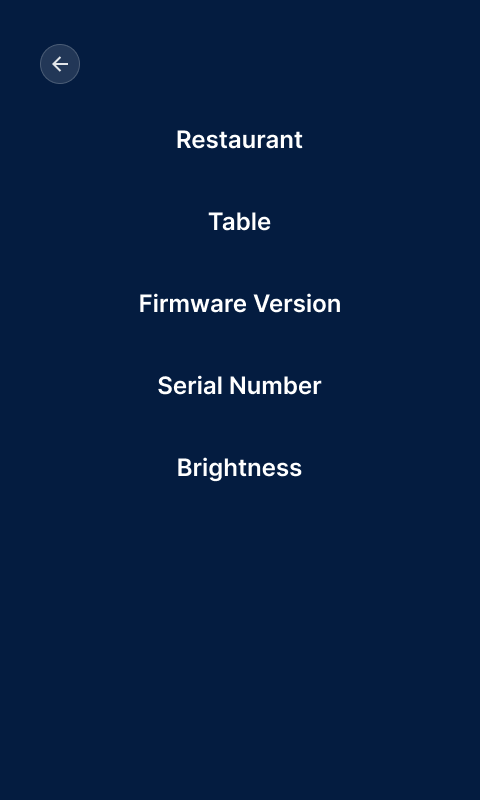
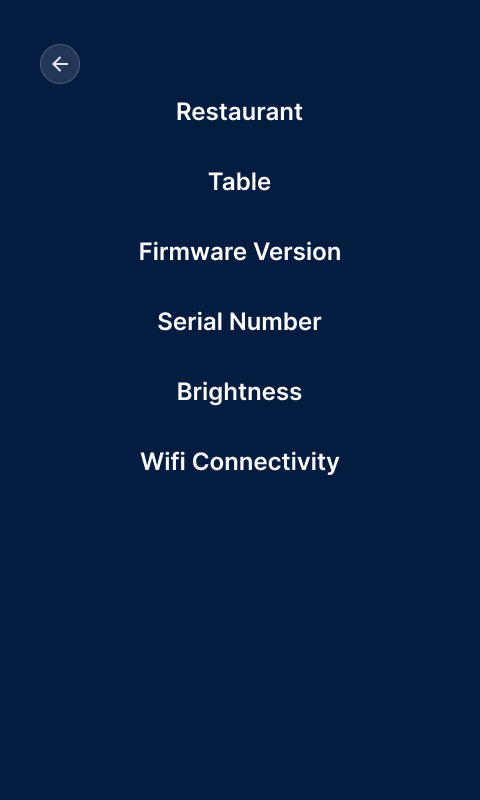
ADD: wifi network in about screen

Changed region(s): [[0.2812, 0.125, 0.7188, 0.4375], [0.2812, 0.5625, 0.7188, 0.625], [0.3125, 0.4688, 0.6875, 0.5312]]

diff --git a/qt-app/main.py b/qt-app/main.py
@@ -20,6 +20,7 @@ from datetime import datetime
 from multiThread import runInNewThread,ReUsableThreadRunner
 from serial import getserial
 from QueueWorker import QueueWorker
+from config.config import APP_VERSION,getConnectedWifi
 
 ENV=os.environ.get('ENV')
 
@@ -52,8 +53,8 @@ firstJourney = True
 smiley = "neutral"
 timeOuts = {
     'generalTimeout':60,
-    'thankYouTimeout':120,
-    'ratingTimeout':300,
+    'thankYouTimeout':600,
+    'ratingTimeout':600,
     'realTimeExpTimeout':20,
     'waiterMenuTimeout':120
 }
@@ -631,6 +632,8 @@ class AboutScreen(TimeBoundScreen):
             self.brightnessLabel.setText(str(storage["podBrightness"]))
         else: 
             self.brightnessLabel.setText("255")
+        self.wifiLabel.setText(getConnectedWifi())
+        self.versionLabel.setText(str(APP_VERSION))
     
     def refresh(self):
         if(self.refreshed):
@@ -747,7 +750,6 @@ class WaiterMenuScreenLoader(TimeBoundScreen):
         loadUi("ui/WaiterMenuLoader.ui", self)
     def clear(self):
         tableId = getTableId()
-        self.tableNumber.setText(tableId)
         super().reset()
     def navigateToGuestScreen(self):
         self.signal.emit()
@@ -1364,6 +1366,7 @@ class BillScreen(QDialog):
     
     def navigateBack(self):
         # navigateToScreen(DinerActionMenuScreen)
+
         navigateGoBack()
 
     def clear(self):
@@ -1375,11 +1378,11 @@ class BillScreen(QDialog):
         serviceCalls['waiterId'] = waiterId
         serviceCalls['guestCount'] = guestCount
 
-    
+
         navigateToScreen(PayQRScreen)
     
     def navigateToFeedbackScreen(self):
-        
+
         navigateToScreen(FeedbackScreen)
 
 
@@ -1401,30 +1404,40 @@ class ServerWillAssistScreen(QDialog):
     def navigateToThankYouScreen(self):
         navigateToScreen(ThankYouScreen)
 
-class PayQRScreen(QDialog):
+class PayQRScreen(TimeBoundScreen):
     shared_instance = None
+    signal = pyqtSignal()
     @staticmethod
     def getInstance():
         if(PayQRScreen.shared_instance == None):
             PayQRScreen.shared_instance = PayQRScreen()
         return PayQRScreen.shared_instance
     def __init__(self):
-        super(PayQRScreen, self).__init__()
+        super(PayQRScreen, self).__init__(timeOuts["generalTimeout"])
         loadUi("ui/18PayQRScreen.ui", self)
         self.backButton.clicked.connect(self.navigateBack)
         self.goToNextButton.clicked.connect(self.navigateToThankYouScreen)
         self.loadQRCode()
+        self.signal.connect(self.navigateToFeedBackSlot)
+        super().setRunnable(self.navigateToFeedback,[])
         # runInNewThread(self, self.loadQRCode)
-    
+    def navigateToFeedback(self):
+        self.signal.emit()
+    def navigateToFeedBackSlot(self):
+        super().stop()
+        navigateToScreen(FeedbackScreen)
     def clear(self):
+        super().reset()
         global restaurantChanged
         qWorker.addAPICall(self.loadQRCode,[])
         lightThreadRunner.launch(self.billLight)
 
     def navigateBack(self):
+        super().stop()
         navigateGoBack()
     
     def navigateToThankYouScreen(self):
+        super().stop()
         navigateToScreen(FeedbackScreen)
 
     def loadQRCode(self):

diff --git a/qt-app/config/config.py b/qt-app/config/config.py
@@ -1,2 +1,9 @@
+import subprocess
 API_URL="https://api.woobly.squareboat.info"
+APP_VERSION=1.1
 # API_URL="http://localhost:3000"
+def getConnectedWifi():
+    try:
+        return subprocess.getoutput("iwgetid | grep -e 'SSID' | awk '{print $2}'").split("\"")[1]
+    except:
+        return "Not Connected"
